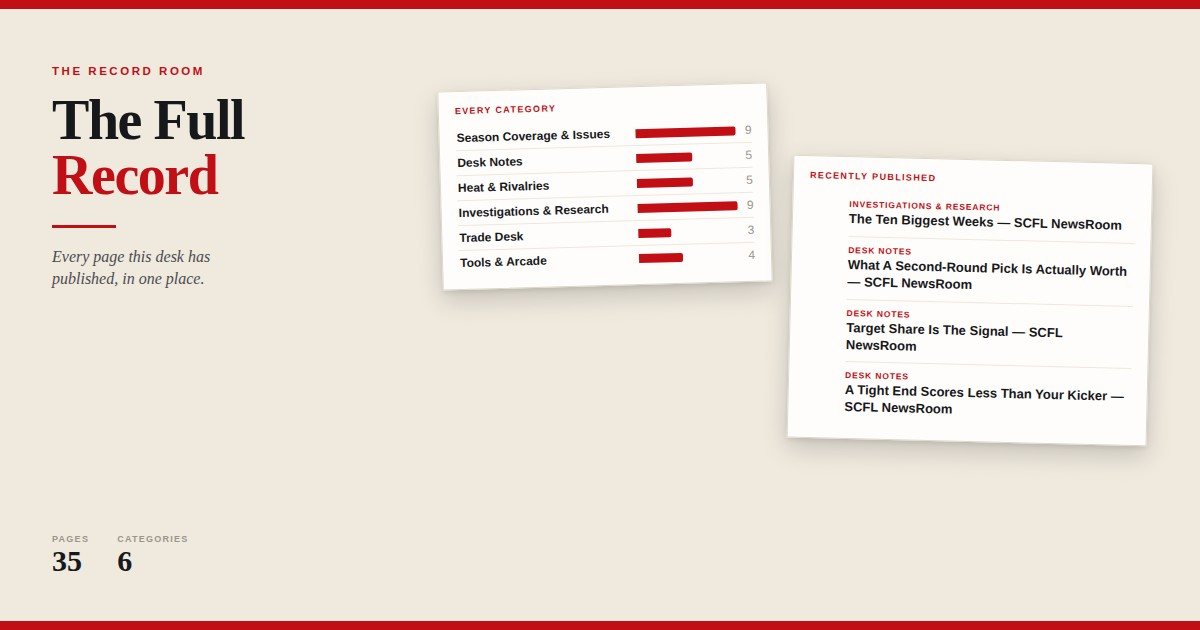
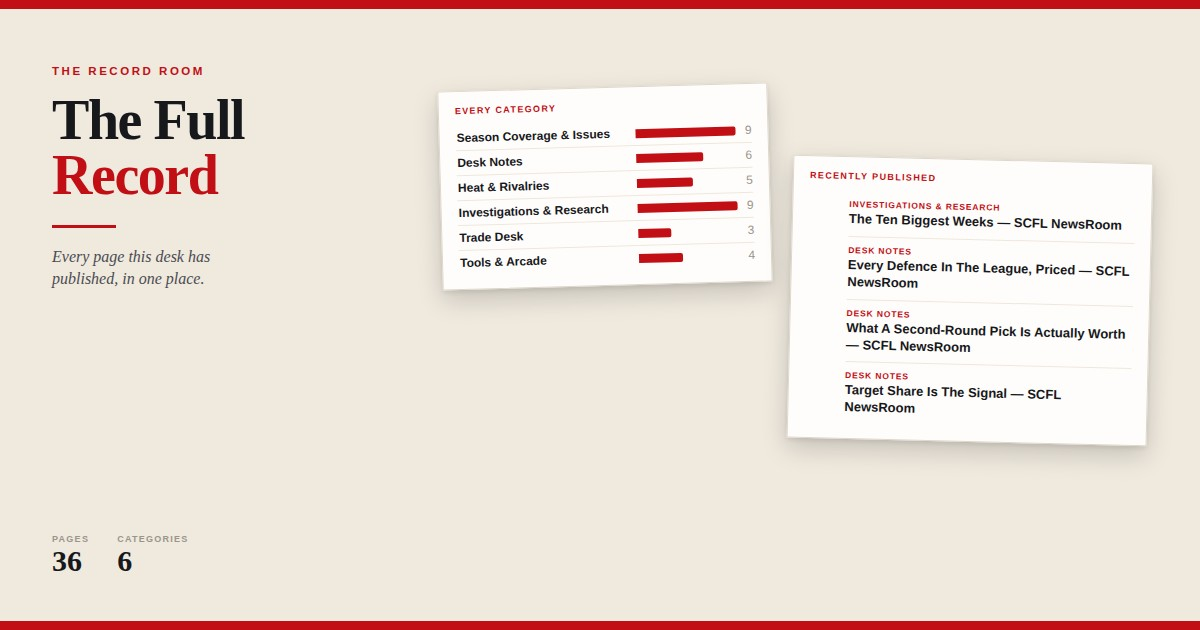
The defence board: all 32, priced in this league's scoring
Sleeper will not report a defence nobody owns, so the thirteen free ones
had to be scored from play-by-play through the league's own settings --
2 a sack, 2 a takeaway, 6 a touchdown, 4 a safety, 2 a blocked kick, and
the points-allowed ladder. Checked against what Sleeper actually paid the
twenty owned defences in weeks 1-4: 60 of 64 weeks match to the penny and
every miss is out by exactly one two-point event, so the figures are good
to about two points.

The answer to the question that prompted it is no. A median defence week
in this league pays 8.0. Houston's median is 12.0, fifth-best of all
thirty-two; Cleveland's is 10.0. The best free median is Detroit's 13.0
on a defence conceding 29.6 a game, which this scoring taxes -- hence a
mean of 9.2, below both.

Median, not mean, is the column that matters, and Carolina is why:
average 10.2, typical week 5.0, because of one 29-point afternoon in week
two. Claiming them off that average is the defensive version of buying a
receiver for his touchdowns.

Five claims corrected against the data before this shipped: Houston's
sacks are second to Detroit's twenty, not first; Cleveland's sixteen are
sixth, not third; Detroit's points allowed are fourth-worst, not second;
Carolina's 29 included three sacks the draft left out; and Houston's
median is fifth of thirty-two, not fourth.

Claude-Session: https://claude.ai/code/session_01UFuyFKGPqfLKJjzL4J7sQk

diff --git a/scfl-note-defence-board.html b/scfl-note-defence-board.html
@@ -1,0 +1,101 @@
+<!doctype html>
+<html lang="en"><head><meta charset="utf-8">
+<meta name="viewport" content="width=device-width,initial-scale=1,viewport-fit=cover">
+<title>Every Defence In The League, Priced &mdash; SCFL NewsRoom</title>
+<meta name="scfl:kicker" content="The Waiver Board &amp;middot; October 2026">
+<meta name="scfl:published" content="2026-10-12">
+<meta name="scfl:category" content="Desk Notes">
+<meta property="og:type" content="article">
+<meta property="og:site_name" content="SCFL NewsRoom">
+<meta property="og:title" content="Every Defence In The League, Priced">
+<meta property="og:description" content="Thirteen defences are sitting free and not one of them is better than the two already on this roster. The upgrade is not a defence. It is the roster place one of them is standing on.">
+<meta property="og:image" content="https://watsoncapitalinvest-dot.github.io/Claude/scfl-note-defence-board-og.jpg">
+<meta name="twitter:card" content="summary_large_image">
+<link rel="icon" href="newsroom-favicon.png">
+<style>
+:root{--cream:#fffdfb;--paper:#faf7f2;--ink:#17181c;--muted:#65656b;--faint:#9a958c;
+ --line:#e6e0d6;--red:#c20f16;--blue:#0e8ab5;--gold:#d8b45a;
+ --serif:Georgia,'Times New Roman',serif;
+ --sans:-apple-system,BlinkMacSystemFont,'Segoe UI',Helvetica,Arial,sans-serif;}
+*{box-sizing:border-box;}
+body{margin:0;background:var(--cream);color:var(--ink);font-family:var(--serif);font-size:17px;
+ line-height:1.62;-webkit-font-smoothing:antialiased;}
+.wrap{max-width:860px;margin:0 auto;padding:0 20px 80px;}
+.runhead{font-family:var(--sans);font-size:10.5px;font-weight:800;letter-spacing:.22em;
+ text-transform:uppercase;color:var(--faint);border-bottom:1px solid var(--line);padding:20px 0 12px;}
+.flag{font-family:var(--sans);font-size:10.5px;font-weight:900;letter-spacing:.24em;
+ text-transform:uppercase;color:var(--red);margin-top:26px;display:block;}
+h1{font-weight:900;font-size:clamp(32px,6.4vw,50px);line-height:1.03;letter-spacing:-.022em;
+ margin:12px 0 0;text-wrap:balance;}
+h1 em{font-style:normal;color:var(--red);}
+.dek{font-style:italic;color:var(--muted);font-size:18px;margin:14px 0 0;max-width:60ch;}
+.byline{font-family:var(--sans);font-size:11.5px;letter-spacing:.06em;color:var(--faint);
+ margin-top:16px;text-transform:uppercase;}
+.rule{height:3px;background:var(--red);width:70px;margin:22px 0 26px;}
+.sect{font-family:var(--sans);font-size:11px;font-weight:900;letter-spacing:.2em;
+ text-transform:uppercase;color:var(--red);margin:44px 0 12px;padding-top:14px;
+ border-top:1px solid var(--line);}
+p.b{margin:0 0 16px;max-width:62ch;}
+ul.bul{margin:0 0 18px;padding-left:20px;max-width:62ch;}
+ul.bul li{margin:0 0 8px;}
+.stats{display:flex;flex-wrap:wrap;gap:24px 38px;margin:0 0 28px;padding-bottom:22px;
+ border-bottom:1px solid var(--line);}
+.stat .k{font-family:var(--sans);font-size:9.5px;font-weight:800;letter-spacing:.14em;
+ text-transform:uppercase;color:var(--faint);}
+.stat .v{font-size:30px;font-weight:900;line-height:1.15;font-variant-numeric:tabular-nums;}
+.stat .n{font-family:var(--sans);font-size:11px;color:var(--muted);}
+.pull{margin:30px 0;padding:0 0 0 20px;border-left:3px solid var(--red);font-size:21px;
+ line-height:1.42;font-weight:700;max-width:46ch;letter-spacing:-.01em;}
+figure{margin:0 0 28px;}
+.scroll{overflow-x:auto;-webkit-overflow-scrolling:touch;}
+table{border-collapse:collapse;width:100%;font-family:var(--sans);font-size:13.5px;}
+th,td{padding:7px 10px 7px 0;text-align:right;white-space:nowrap;vertical-align:baseline;}
+thead th{font-size:9.5px;font-weight:800;letter-spacing:.12em;text-transform:uppercase;
+ color:var(--faint);border-bottom:1px solid var(--line);}
+th.lt,td.lt,tbody th{text-align:left;white-space:normal;}
+tbody th{font-weight:700;}
+tbody tr+tr th,tbody tr+tr td{border-top:1px solid #f0ece3;}
+td.num{font-variant-numeric:tabular-nums;}
+td.dim{color:var(--muted);}
+.dim{color:var(--faint);font-weight:400;}
+tbody th .dim{font-family:var(--sans);font-size:10.5px;font-weight:700;letter-spacing:.08em;
+ margin-left:5px;}
+figcaption{font-family:var(--sans);font-size:11.5px;color:var(--muted);margin-top:9px;
+ padding-top:8px;border-top:1px solid var(--line);max-width:70ch;}
+.live{border:2px solid var(--red);border-radius:3px;padding:16px 18px;margin:0 0 28px;
+ background:#fdf4f2;}
+.live .lk{font-family:var(--sans);font-size:9.5px;font-weight:900;letter-spacing:.2em;
+ text-transform:uppercase;color:var(--red);margin-bottom:8px;}
+.live p{margin:0 0 10px;font-size:16px;line-height:1.55;max-width:62ch;}
+.live p:last-child{margin-bottom:0;}
+.more{margin-top:46px;border-top:1px solid var(--line);padding-top:18px;font-family:var(--sans);
+ font-size:12.5px;line-height:1.6;color:var(--muted);max-width:74ch;}
+.more a{color:var(--red);font-weight:700;}
+.more b{color:var(--ink);}
+</style></head>
+<body><div class="wrap">
+<div class="runhead">SCFL NewsRoom &middot; The Waiver Board &middot; October 2026</div>
+<span class="flag">The Waiver Board</span>
+<h1>Every Defence In The League, <em>Priced</em></h1>
+<p class="dek">Thirteen defences are sitting free and not one of them is better than the two already on this roster. The upgrade is not a defence. It is the roster place one of them is standing on.</p>
+<div class="byline">The SCFL NewsRoom &middot; The Player Desk</div>
+<div class="rule"></div>
+<div class="stats"><div class="stat"><div class="k">A median defence week</div><div class="v">8.0</div><div class="n">148 defence-weeks, this scoring</div></div><div class="stat"><div class="k">Defences owned</div><div class="v">20</div><div class="n">of 32; thirteen free</div></div><div class="stat"><div class="k">Houston's median</div><div class="v">12.0</div><div class="n">and a league-high 18 sacks</div></div><div class="stat"><div class="k">Best free median</div><div class="v">13.0</div><div class="n">Detroit, who concede 29.6 a game</div></div></div>
+<p class="b">A defence is the one position where the honest number is the median and not the average. They are streamed, their weeks are lumpy, and one return touchdown against a bad quarterback will carry a mean for a month. The question is not what a defence has scored. It is what it pays in a normal week.</p>
+<p class="b">A normal week in this league pays <b>8.0</b>. That is the median of all 148 defence-weeks this season under these settings, and it is the bar everything below has to clear.</p>
+<div class="sect">The two already here</div>
+<figure><div class="scroll"><table><thead><tr><th class="lt">Defence</th><th>Mean</th><th>Median</th><th>Worst</th><th>Best</th><th>Sacks</th><th>PA/g</th></tr></thead><tbody><tr><th scope="row">Houston <span class="dim">starting</span></th><td class="num dim">10.8</td><td class="num dim"><b>12.0</b></td><td class="num dim">0</td><td class="num dim">19</td><td class="num dim"><b>18</b></td><td class="num dim">22.4</td></tr><tr><th scope="row">Cleveland <span class="dim">bench</span></th><td class="num dim">10.0</td><td class="num dim"><b>10.0</b></td><td class="num dim">1</td><td class="num dim">15</td><td class="num dim">16</td><td class="num dim">22.4</td></tr></tbody></table></div><figcaption>Houston's eighteen sacks are second in the NFL behind Detroit's twenty; Cleveland's sixteen are sixth. Both clear the league median comfortably.</figcaption></figure>
+<p class="b">Houston is a top-six defence in this league by any of the three measures and has gone 0, 12, 16, 7, 19 &mdash; the 19 being its best week of the year, last week. Cleveland has gone 1, 10, 10, 15, 14, which is the opposite shape: no ceiling, no floor either, and climbing. Neither of them is the problem.</p>
+<div class="sect">And the thirteen on the wire</div>
+<figure><div class="scroll"><table><thead><tr><th class="lt">Free defence</th><th>Mean</th><th>Median</th><th>Worst</th><th>Best</th></tr></thead><tbody><tr><th scope="row">Detroit</th><td class="num dim">9.2</td><td class="num dim"><b>13.0</b></td><td class="num dim">0</td><td class="num dim">15</td></tr><tr><th scope="row">NY Giants</th><td class="num dim">9.0</td><td class="num dim">8.0</td><td class="num dim">4</td><td class="num dim">17</td></tr><tr><th scope="row">New England</th><td class="num dim">10.0</td><td class="num dim">8.0</td><td class="num dim">0</td><td class="num dim">25</td></tr><tr><th scope="row">Tampa Bay</th><td class="num dim">7.4</td><td class="num dim">8.0</td><td class="num dim">5</td><td class="num dim">9</td></tr><tr><th scope="row">Tennessee</th><td class="num dim">7.8</td><td class="num dim">7.5</td><td class="num dim">5</td><td class="num dim">11</td></tr><tr><th scope="row">LA Chargers</th><td class="num dim">8.2</td><td class="num dim">7.0</td><td class="num dim">3</td><td class="num dim">19</td></tr><tr><th scope="row">Arizona</th><td class="num dim">7.2</td><td class="num dim">6.5</td><td class="num dim">2</td><td class="num dim">14</td></tr><tr><th scope="row">Kansas City</th><td class="num dim">7.5</td><td class="num dim">6.5</td><td class="num dim">1</td><td class="num dim">16</td></tr><tr><th scope="row">LA Rams</th><td class="num dim">7.2</td><td class="num dim">6.5</td><td class="num dim">3</td><td class="num dim">13</td></tr><tr><th scope="row">Carolina</th><td class="num dim">10.2</td><td class="num dim">5.0</td><td class="num dim">2</td><td class="num dim">29</td></tr><tr><th scope="row">Miami</th><td class="num dim">4.8</td><td class="num dim">4.0</td><td class="num dim">1</td><td class="num dim">10</td></tr><tr><th scope="row">New Orleans</th><td class="num dim">6.4</td><td class="num dim">4.0</td><td class="num dim">&minus;2</td><td class="num dim">15</td></tr><tr><th scope="row">Indianapolis</th><td class="num dim">4.8</td><td class="num dim">3.0</td><td class="num dim">1</td><td class="num dim">10</td></tr></tbody></table></div><figcaption>Ranked by median, which is the column that matters. Every one of these was unrostered at this morning's pull.</figcaption></figure>
+<div class="pull">Carolina averages 10.2 and typically pays 5. One afternoon is the entire case for them.</div>
+<p class="b">Carolina is the trap on this board and it is worth naming. The mean says 10.2, better than Cleveland. The median says 5.0. They scored 29 in week two &mdash; three interceptions, two fumble recoveries, three sacks, a touchdown and three points conceded &mdash; and 2, 7 and 3 in their other three games. Claiming Carolina off that average is the defensive version of buying a receiver for his touchdowns.</p>
+<p class="b">New England is the same shape, gentler: a 25 in week two and 8, 0, 7, 10 around it. Take the one big week out of either and both sit well below the two defences already on this roster.</p>
+<div class="sect">Detroit is the only real argument</div>
+<p class="b">Detroit has twenty sacks, more than any defence in football, and a median of 13 that beats Houston's. It also concedes 29.6 points a game, fourth-worst in the league, and this scoring charges a point for conceding 28 and four points for conceding 35. That is why a defence with the best pass rush in the NFL has a mean of 9.2.</p>
+<p class="b">So Detroit is not an upgrade. It is a different bet: more sacks, more weeks in the red on points allowed, and a zero already on the board. Houston does the same thing with eighteen sacks and seven fewer points conceded a game.</p>
+<div class="sect">What to actually do</div>
+<div class="live"><div class="lk">The move</div><p>Cut Cleveland, and do not replace it with a defence. Nothing free is better, and with thirteen defences sitting unowned there will still be thirteen sitting unowned the week Houston has its bye.</p><p>Cleveland's median is 10 and the best free median is Detroit's 13, so on the one week Houston is off the bench place is worth nothing at all. Spend it on a 23-year-old instead.</p><p>One thing this desk could not check: the NFL schedule file is not reachable from here, so Houston's bye week is unknown. If it is the next one, hold Cleveland one more week and stream the bye from the thirteen.</p></div>
+<p class="b">The thing worth saying last is that the question assumed one of the two was bad. Neither is. Houston's median week is fifth-best of all thirty-two defences and Cleveland's clears the league median by two. The roster has a defence problem only in the sense that it has one defence too many.</p>
+<div class="more"><b>How this was worked out.</b> There is no way to ask Sleeper what an unrostered defence scored &mdash; it only reports players somebody owns &mdash; so every defence here is scored from nflverse play-by-play through this league's own settings: 2 a sack, 2 a takeaway, 6 a touchdown, 4 a safety, 2 a blocked kick, and the points-allowed ladder from +10 for a shutout down to &minus;4 for 35 and over. The sum was then checked against what Sleeper actually paid the twenty owned defences in weeks one to four: 60 of 64 weeks match to the penny, and all four misses are out by exactly one two-point event. Treat every figure as good to about two points.<br>Checked against: <code>week-data/2026-w6.json</code> &middot; <code>week-data/2026-w4.json</code> &middot; <code>nflverse play_by_play_2026</code><br>A desk note: short, dated, and kept because the question will be asked again. Rebuilt by <code>scripts/build_notes.py</code> from <code>desk-notes.json</code>.</div>
+</div></body></html>
